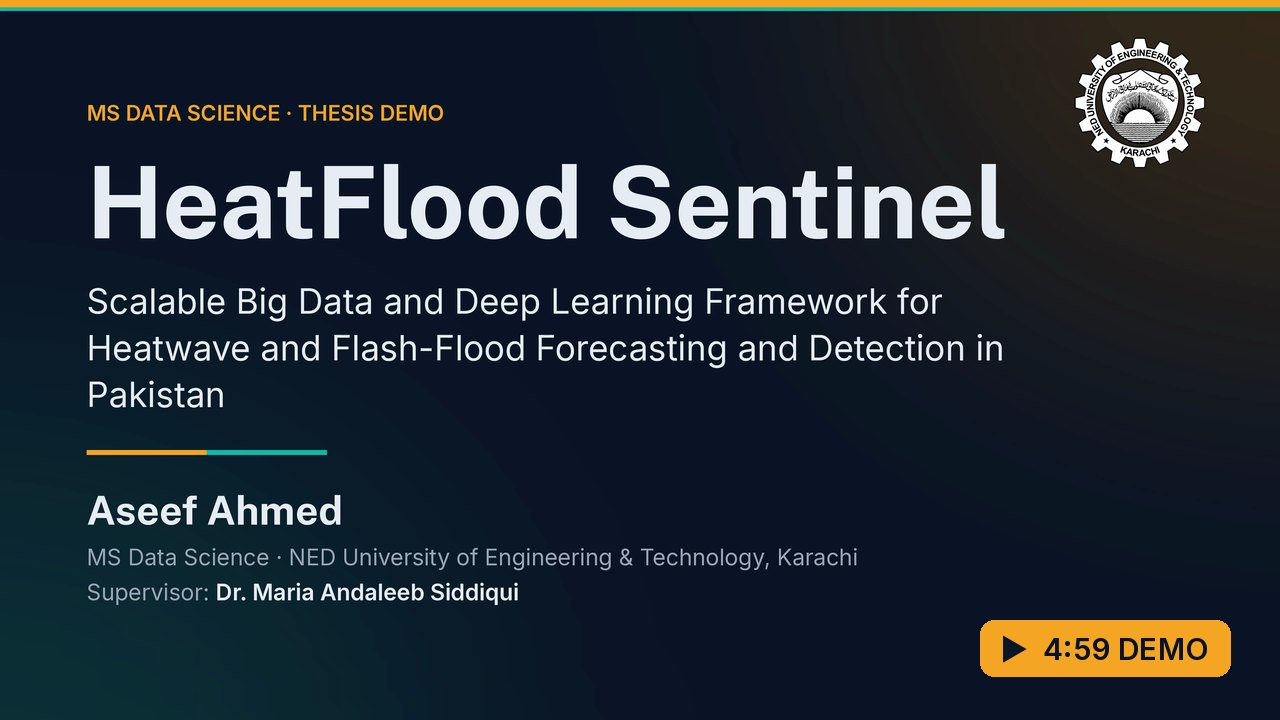
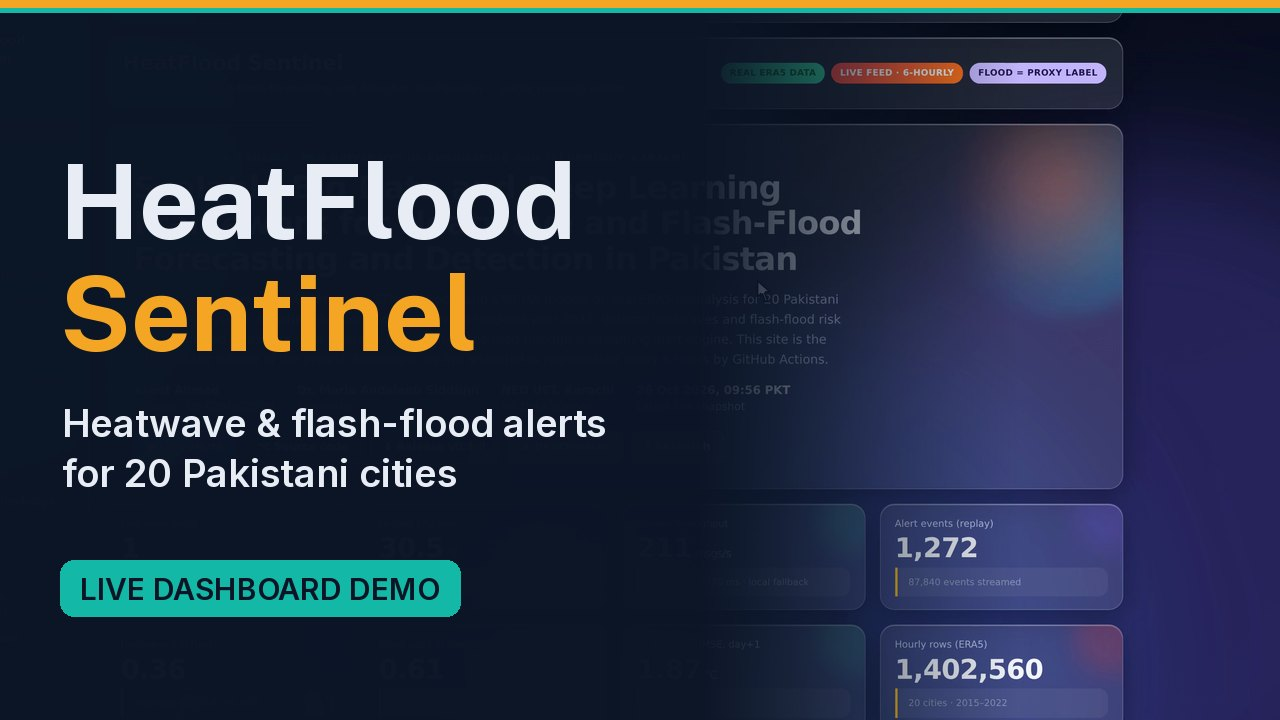
site(vip): distinct Warning (red) vs Watch (orange) alert colours; rounded ConvLSTM lead-axis labels; video poster without baked-in badge

diff --git a/benchmark.html b/benchmark.html
@@ -58,7 +58,7 @@ shell('benchmark', 'Model Benchmarks', 'LSTM · ConvLSTM · XGBoost · SARIMA ·
     const regs = Object.keys(rows[0] || {}).filter(k => k.startsWith('rmse_') && !k.includes('extreme'));
     $('#region').innerHTML = table(regs.map(k => ({ region: k.replace('rmse_', ''), ...Object.fromEntries(rows.map(r => [r.model, r[k]])) })), [{ k: 'region', label: 'Region' }, ...rows.map(r => ({ k: r.model, label: r.model, num: 1, f: fmt }))]);
     const g2 = b.grid.filter(r => r.var === (v === 'tmax' ? 't2m' : v));
-    HFS_CHARTS.lineChart($('#grid'), [...new Set(g2.map(r => r.model))].map(m => ({ name: m, dots: true, points: g2.filter(r => r.model === m).map(r => [r.horizon, r.rmse]) })), { time: false, height: 220, xfmt: x => '+' + x + 'h', ylabel: 'RMSE' });
+    HFS_CHARTS.lineChart($('#grid'), [...new Set(g2.map(r => r.model))].map(m => ({ name: m, dots: true, points: g2.filter(r => r.model === m).map(r => [r.horizon, r.rmse]) })), { time: false, height: 220, xfmt: x => '+' + (+(+x).toFixed(1)) + 'h', ylabel: 'RMSE' });
     $('#gridtbl').innerHTML = table(g2.filter(r => r.model === 'convlstm'), [{ k: 'horizon', label: 'Lead (h)', num: 1 }, { k: 'rmse', label: 'ConvLSTM RMSE', num: 1, f: x => fmt(x, 3) }, { k: 'nse', label: 'NSE', num: 1, f: x => fmt(x, 4) }, { k: 'n', label: 'n', num: 1, f: x => x.toLocaleString() }], { max: 220 });
     const sd = (await get('daily')).seeds.filter(r => r.var === (t === 'daily' ? v : 'tmax'));
     $('#seeds').innerHTML = table(sd, [{ k: 'horizon', label: 'Lead (d)', num: 1 }, { k: 'mean', label: 'RMSE mean', num: 1, f: x => fmt(x, 3) }, { k: 'std', label: '± std', num: 1, f: x => fmt(x, 3) }, { k: 'count', label: 'seeds', num: 1 }]);

diff --git a/js/app.js b/js/app.js
@@ -35,7 +35,7 @@ const RETRAIN_PAGES = new Set(['forecast', 'heatwave', 'flood', 'benchmark', 'ex
 const RETRAIN_HTML = '<div class="note retrain" role="note"><b>Model results: release v0.1.0.</b> Metrics on this page come from models trained on ERA5 2015–2020 (validation 2021, held-out test 2022). The city archive has since been extended to <b>1990-01-01 → 2026-10-19</b> (20 cities, 6,451,680 hourly rows) and <b>retraining on 1990–2026 is in progress</b>; updated metrics will be inserted here when that run is complete.</div>';
 function retrainNote(sel) { const el = typeof sel === 'string' ? document.querySelector(sel) : sel; if (el) el.outerHTML = `<section class="grid"><div class="span-12">${RETRAIN_HTML}</div></section>`; }
 const LEVELS = ['Normal', 'Advisory', 'Watch', 'Warning', 'Emergency'];
-const LEVEL_COLORS = ['#34D399', '#FBBF24', '#FB923C', '#F97316', '#EF4444'];
+const LEVEL_COLORS = ['#34D399', '#FBBF24', '#FB923C', '#EF4444', '#9F1239'];  /* Warning red vs Watch orange: distinct hues */
 const slug = s => s.toLowerCase().replace(/[^a-z0-9]+/g, '-').replace(/^-|-$/g, '');
 const cityHref = name => BASE + 'cities/' + slug(name) + '.html';
 

diff --git a/styles/vip.css b/styles/vip.css
@@ -59,3 +59,7 @@ html.anim .reveal.in { opacity: 1; transform: none; }
 
 @media (max-width: 900px) { .factstrip { grid-template-columns: repeat(2, minmax(0, 1fr)); } .factstrip li:last-child { grid-column: span 2; } }
 @media (max-width: 560px) { .hero .people { gap: 10px 18px; } .btnrow .btn { flex: 1 1 calc(50% - 10px); justify-content: center; } .sechead h2 { font-size: 19px; } }
+
+/* alert levels: Warning = red, Emergency = deep crimson (distinct from Watch orange) */
+:root { --warning:#EF4444; --emergency:#9F1239; }
+.sev.l3 { background: var(--warning); color: #fff; } .sev.l4 { background: var(--emergency); color: #fff; }

diff --git a/tools/gen_pages_more.py b/tools/gen_pages_more.py
@@ -156,7 +156,7 @@ shell('benchmark', 'Model Benchmarks', 'LSTM · ConvLSTM · XGBoost · SARIMA ·
     const regs = Object.keys(rows[0] || {}).filter(k => k.startsWith('rmse_') && !k.includes('extreme'));
     $('#region').innerHTML = table(regs.map(k => ({ region: k.replace('rmse_', ''), ...Object.fromEntries(rows.map(r => [r.model, r[k]])) })), [{ k: 'region', label: 'Region' }, ...rows.map(r => ({ k: r.model, label: r.model, num: 1, f: fmt }))]);
     const g2 = b.grid.filter(r => r.var === (v === 'tmax' ? 't2m' : v));
-    HFS_CHARTS.lineChart($('#grid'), [...new Set(g2.map(r => r.model))].map(m => ({ name: m, dots: true, points: g2.filter(r => r.model === m).map(r => [r.horizon, r.rmse]) })), { time: false, height: 220, xfmt: x => '+' + x + 'h', ylabel: 'RMSE' });
+    HFS_CHARTS.lineChart($('#grid'), [...new Set(g2.map(r => r.model))].map(m => ({ name: m, dots: true, points: g2.filter(r => r.model === m).map(r => [r.horizon, r.rmse]) })), { time: false, height: 220, xfmt: x => '+' + (+(+x).toFixed(1)) + 'h', ylabel: 'RMSE' });
     $('#gridtbl').innerHTML = table(g2.filter(r => r.model === 'convlstm'), [{ k: 'horizon', label: 'Lead (h)', num: 1 }, { k: 'rmse', label: 'ConvLSTM RMSE', num: 1, f: x => fmt(x, 3) }, { k: 'nse', label: 'NSE', num: 1, f: x => fmt(x, 4) }, { k: 'n', label: 'n', num: 1, f: x => x.toLocaleString() }], { max: 220 });
     const sd = (await get('daily')).seeds.filter(r => r.var === (t === 'daily' ? v : 'tmax'));
     $('#seeds').innerHTML = table(sd, [{ k: 'horizon', label: 'Lead (d)', num: 1 }, { k: 'mean', label: 'RMSE mean', num: 1, f: x => fmt(x, 3) }, { k: 'std', label: '± std', num: 1, f: x => fmt(x, 3) }, { k: 'count', label: 'seeds', num: 1 }]);

diff --git a/tools/build_assets.py b/tools/build_assets.py
@@ -46,7 +46,7 @@ def main() -> None:
     vtt = "WEBVTT\n\n" + re.sub(r"(\d\d:\d\d:\d\d),(\d\d\d)", r"\1.\2", srt.replace("\r", ""))
     (MEDIA / "HeatFlood_Sentinel_Demo.vtt").write_text(vtt)
     thumb = Image.open(CODE / "docs/demo/thumb_1.png").convert("RGB")
-    thumb.save(MEDIA / "demo_poster.jpg", quality=86, optimize=True, progressive=True)
+    Image.open(CODE / "docs/demo/thumb_2.png").convert("RGB").save(MEDIA / "demo_poster.jpg", quality=86, optimize=True, progressive=True)
     # Open Graph card 1200x630 from the title-card thumbnail (already carries title, author, NED crest)
     og = thumb.resize((1200, 675), Image.LANCZOS).crop((0, 22, 1200, 652))
     og.convert("RGB").save(MEDIA / "og.png", optimize=True)
